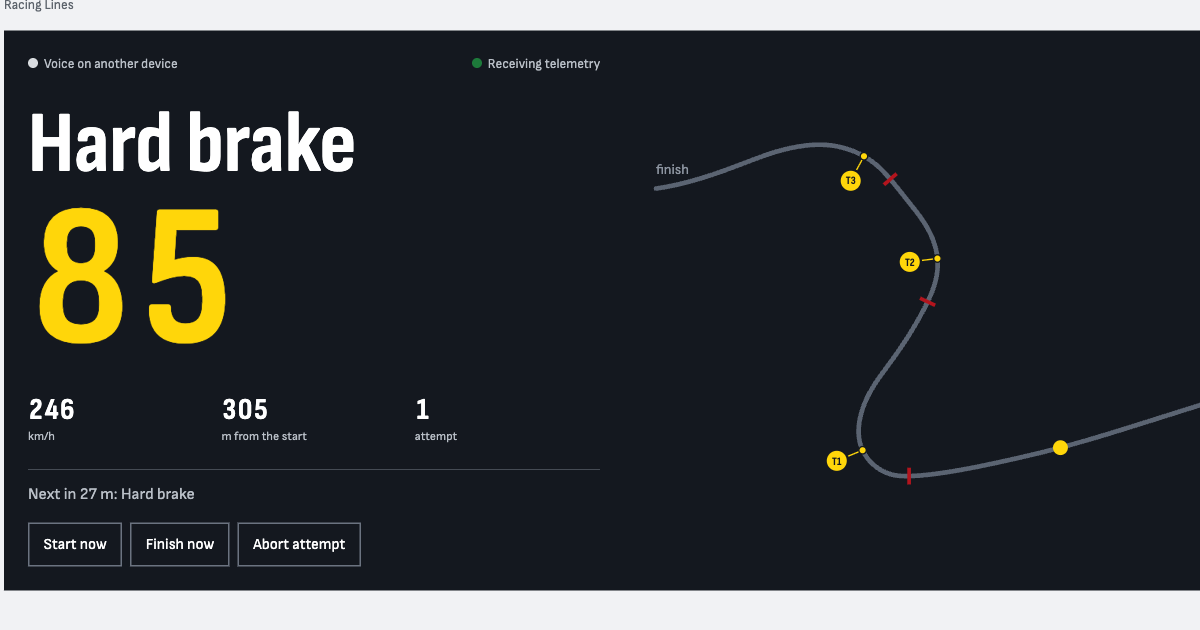
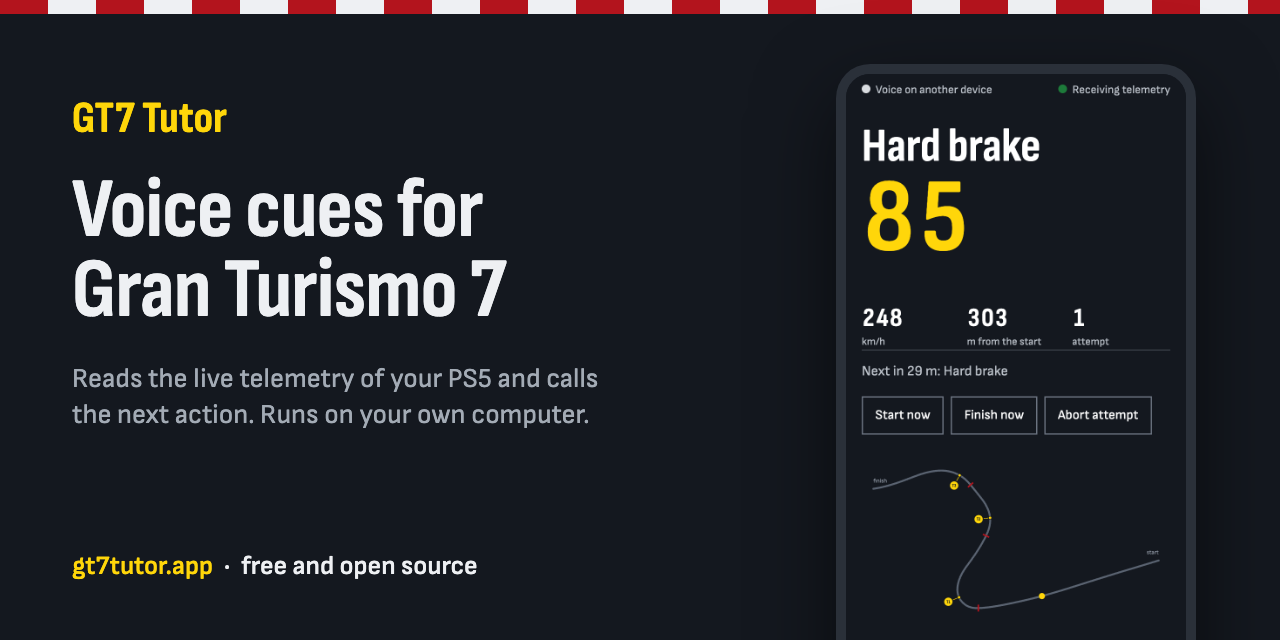
chore(site): replace the social card and use an absolute image URL
Telegram, Discord and X need an absolute og:image URL.
The card is 1280x640, the size that GitHub recommends for the social preview.

Changed region(s): [[0.0, 0.0, 1.0, 1.0], [0.37, 0.0905, 0.4933, 0.1206], [0.8633, 0.8746, 0.8942, 0.9048]]

diff --git a/site/index.html b/site/index.html
@@ -9,7 +9,12 @@
 <meta property="og:title" content="GT7 Tutor">
 <meta property="og:description" content="Voice cues for Gran Turismo 7 exercises, timed from the live telemetry of your PS5.">
 <meta property="og:type" content="website">
-<meta property="og:image" content="assets/screenshots/social.png">
+<meta property="og:url" content="https://gt7tutor.app/">
+<meta property="og:image" content="https://gt7tutor.app/assets/screenshots/social.png">
+<meta property="og:image:width" content="1280">
+<meta property="og:image:height" content="640">
+<meta property="og:image:alt" content="GT7 Tutor: voice cues for Gran Turismo 7. A phone shows the cue Hard brake 85 and the track.">
+<meta name="twitter:card" content="summary_large_image">
 <link rel="icon" href="favicon.svg" type="image/svg+xml">
 <link rel="stylesheet" href="styles.css">
 </head>
